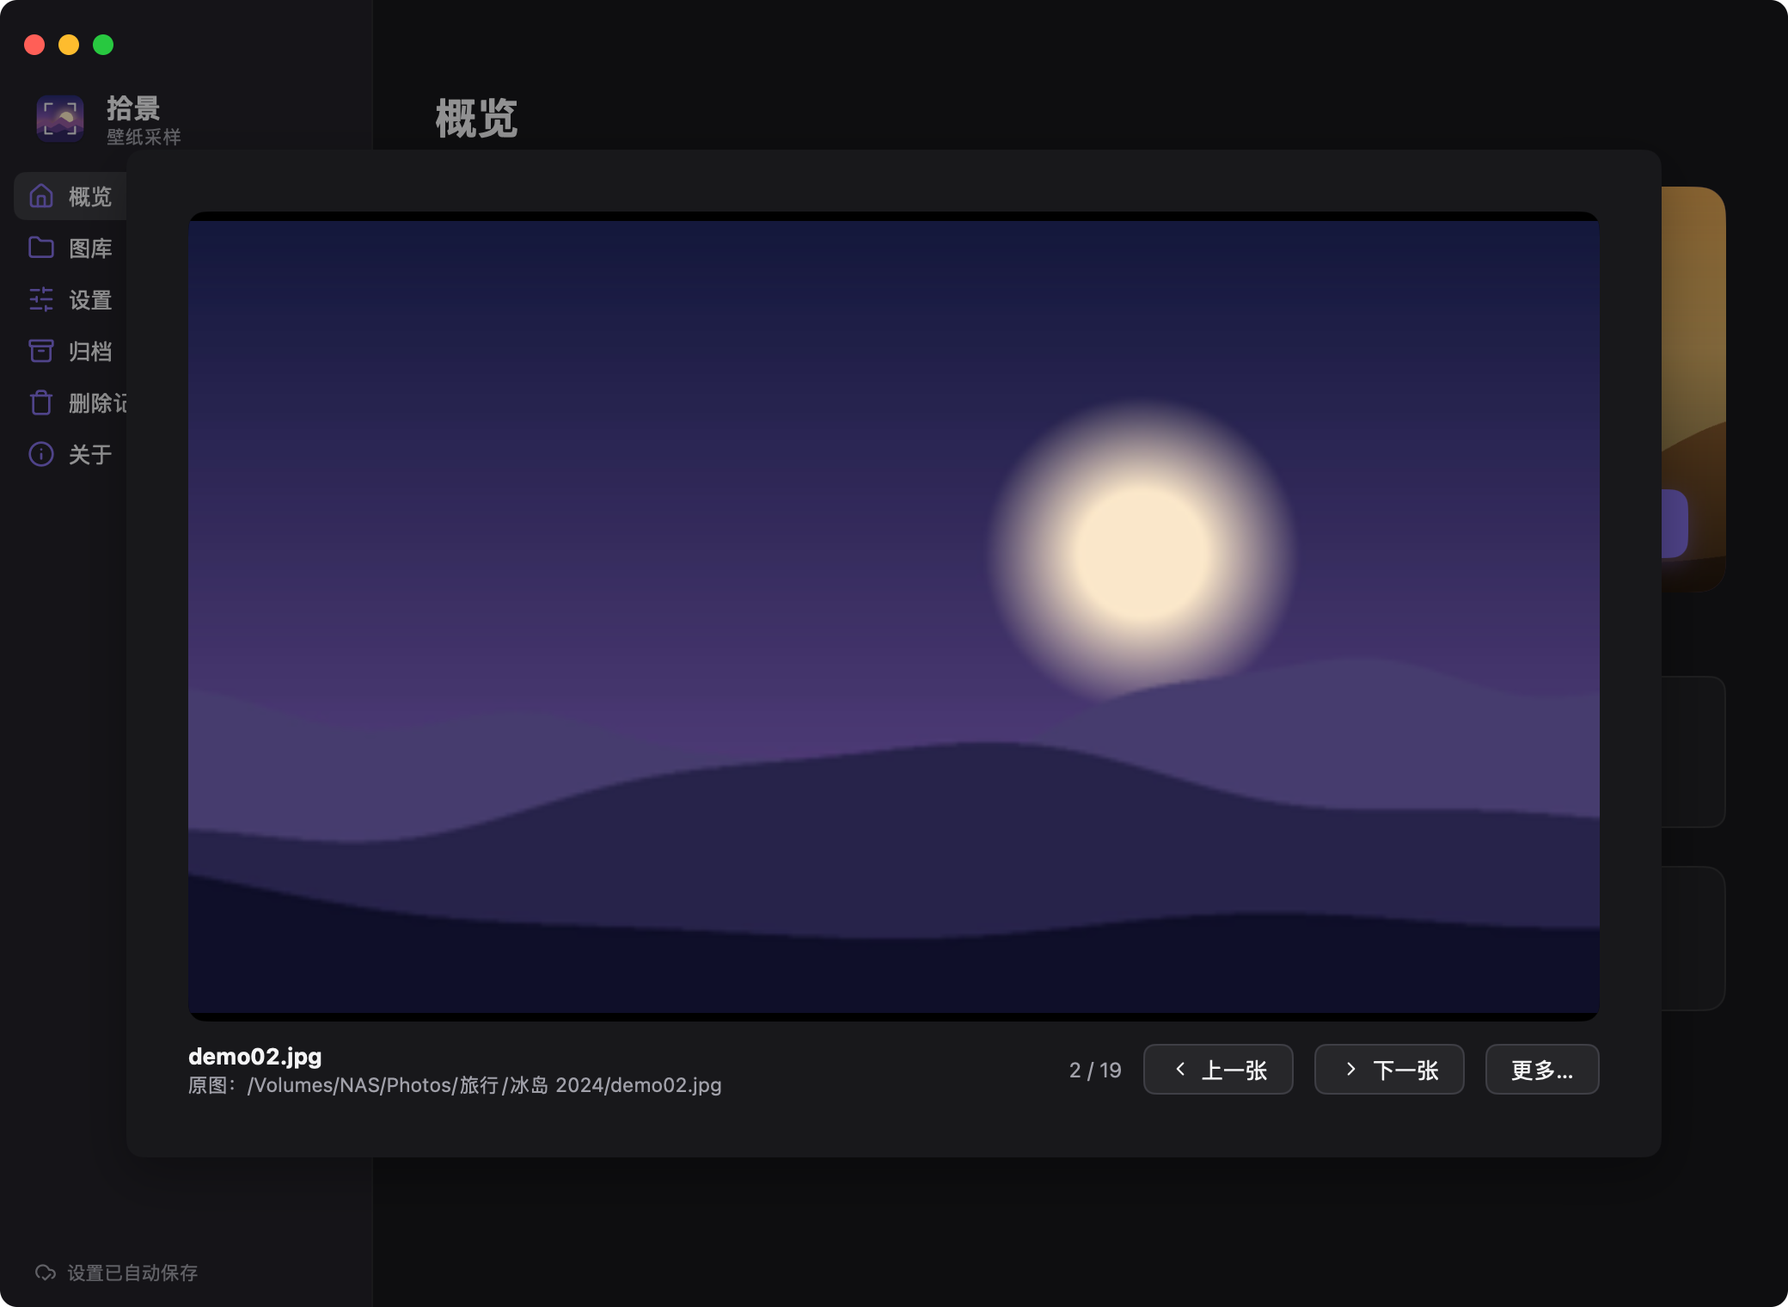
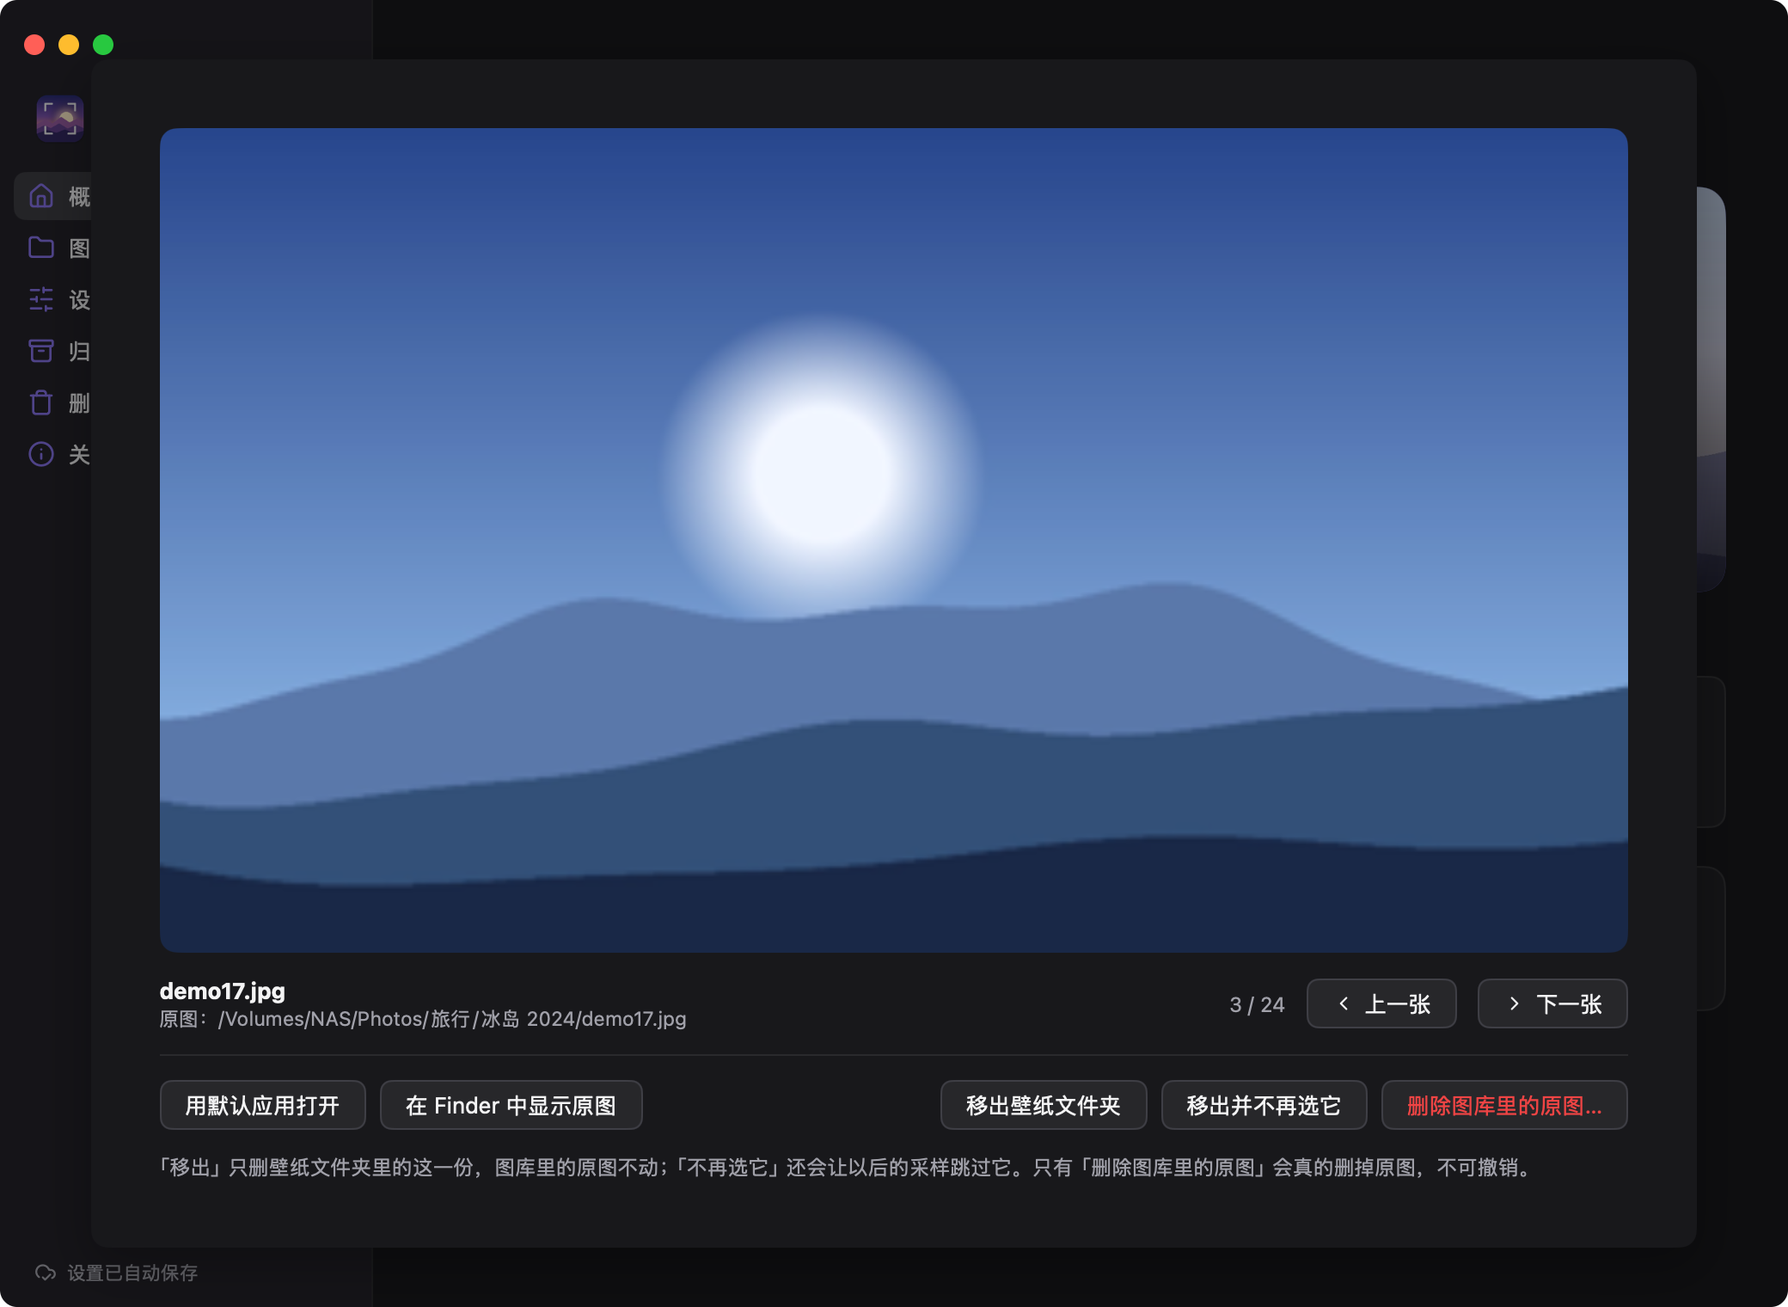
fix(拾景): 预览可翻看全部壁纸、操作按钮直接放进预览、说清移出与删除的区别、按图片比例显示不留黑边，版本 v0.3.1

diff --git a/desktop/preview.go b/desktop/preview.go
@@ -3,28 +3,43 @@ package main
 import (
 	"fmt"
 	"path/filepath"
+	"slices"
 
 	"github.com/egoist/mygo/ui"
 )
 
-// wallMenu 是缩略图（和大图预览）的操作菜单。
+// 三种操作的说法要让人一眼看出动不动原图：「移出」只删壁纸文件夹里的那份，「删除原图」才动图库。
+const (
+	actRemove     = "移出壁纸文件夹"
+	actExclude    = "移出并不再选它"
+	actDelete     = "删除图库里的原图…"
+	actRemoveTip  = "只删掉壁纸文件夹里的这一份，图库里的原图不动，以后还可能再被选中"
+	actExcludeTip = "同「移出壁纸文件夹」，原图不动；另外把它加进「不再选的图片」，以后采样跳过它（图库页可以恢复）"
+	actDeleteTip  = "从图库里删除原图，不可撤销，会记进删除记录"
+)
+
+// wallMenu 是缩略图的右键菜单（和大图预览里的按钮是同一组操作）。
 func (a *app) wallMenu(m *ui.Menu, wall string) {
 	src := a.wallSource(wall)
+	if m.Item("查看大图").Chosen() {
+		a.openPreviewOf(wall)
+	}
 	if m.Item("用默认应用打开").Chosen() {
 		a.openPath(wall)
 	}
-	if src != "" && m.Item("在 Finder 中显示原图所在文件夹").Chosen() {
+	if src != "" && m.Item("在 Finder 中显示原图").Chosen() {
 		a.openPath(filepath.Dir(src))
 	}
 	m.Separator()
-	if m.Item("从壁纸文件夹移除").Chosen() {
+	if m.Item(actRemove + "（原图保留）").Chosen() {
 		a.removeWallpaper(wall, false)
 	}
 	if src != "" {
-		if m.Item("移除并不再选它").Chosen() {
+		if m.Item(actExclude + "（原图保留）").Chosen() {
 			a.removeWallpaper(wall, true)
 		}
-		if m.Item("删除原图…").Danger().Chosen() {
+		m.Separator()
+		if m.Item(actDelete).Danger().Chosen() {
 			a.askDeleteOriginal(wall)
 		}
 	}
@@ -34,14 +49,20 @@ func (a *app) askDeleteOriginal(wall string) {
 	a.pendingDelWall, a.confirmDelSrc = wall, true
 }
 
+// openPreview 打开第 i 张缩略图的大图；预览可以翻看壁纸文件夹里的全部图片，不只是缩略图里那几张。
 func (a *app) openPreview(i int) {
-	if i < 0 || i >= len(a.walls.paths) {
-		return
+	if i >= 0 && i < len(a.walls.paths) {
+		a.openPreviewOf(a.walls.paths[i])
 	}
-	a.preview, a.previewIdx = true, i
 }
 
-// loadPreview 在后台把预览的那张解码成大图（缩略图只有 360 像素宽）。
+func (a *app) openPreviewOf(wall string) {
+	if i := slices.Index(a.walls.all, wall); i >= 0 {
+		a.preview, a.previewIdx = true, i
+	}
+}
+
+// loadPreview 在后台把预览的那张解码成大图（缩略图只有 360 像素宽，还有很多张没有缩略图）。
 func (a *app) loadPreview(path string) {
 	if a.previewFor == path || a.update == nil {
 		return
@@ -60,39 +81,75 @@ func (a *app) loadPreview(path string) {
 	}()
 }
 
-// previewModal 是缩略图的大图预览：左右方向键切换，Esc 或点外面关闭。
+// previewBitmap 是预览要显示的图：大图解码好了用大图，否则先用缩略图顶着，都没有返回 nil。
+func (a *app) previewBitmap(wall string) *ui.Bitmap {
+	if a.previewImg != nil && a.previewFor == wall {
+		return a.previewImg
+	}
+	if i := slices.Index(a.walls.paths, wall); i >= 0 {
+		return a.walls.thumbs[i]
+	}
+	return nil
+}
+
+// fitBox 让预览框和图片同比例（不留黑边），并且不超过 maxW × maxH。
+func fitBox(imgW, imgH int, maxW, maxH float32) (w, h float32) {
+	ratio := float32(16.0 / 10)
+	if imgW > 0 && imgH > 0 {
+		ratio = float32(imgW) / float32(imgH)
+	}
+	w = min(maxW, maxH*ratio)
+	return w, w / ratio
+}
+
+// previewModal 是大图预览：可以翻看壁纸文件夹里的全部图片（←→），直接在这里移出或删除。
 func (a *app) previewModal(c *ui.Context) {
 	t := c.Theme()
 	w := &a.walls
-	if a.preview && (a.previewIdx >= len(w.paths) || a.running) {
+	if a.preview && (a.previewIdx >= len(w.all) || a.running) {
 		a.preview = false
 	}
+	step := func(d int) {
+		if n := len(w.all); n > 0 {
+			a.previewIdx = (a.previewIdx + d + n) % n
+		}
+	}
 	if a.preview {
-		a.loadPreview(w.paths[a.previewIdx])
+		a.loadPreview(w.all[a.previewIdx])
 		switch {
 		case c.Shortcut(0, ui.KeyLeft):
-			a.previewIdx = (a.previewIdx + len(w.paths) - 1) % len(w.paths)
+			step(-1)
 		case c.Shortcut(0, ui.KeyRight), c.Shortcut(0, ui.KeySpace):
-			a.previewIdx = (a.previewIdx + 1) % len(w.paths)
+			step(1)
 		}
 	}
 	vw, vh := c.Size()
 	ui.Modal(c, &a.preview, func() {
-		if a.previewIdx >= len(w.paths) {
+		if a.previewIdx >= len(w.all) {
 			return
 		}
-		wall := w.paths[a.previewIdx]
+		wall := w.all[a.previewIdx]
 		src := a.wallSource(wall)
-		width := min(vw*0.82, 1100)
-		ui.Column(c).Width(width).Gap(12).Padding(16).Children(func() {
-			img := w.thumbs[a.previewIdx]
-			if a.previewImg != nil && a.previewFor == wall {
-				img = a.previewImg
+		bmp := a.previewBitmap(wall)
+		var iw, ih int
+		if bmp != nil {
+			iw, ih = bmp.Size()
+		}
+		// 图片框和图片同比例，整个弹层始终比主窗口小
+		boxW, boxH := fitBox(iw, ih, min(vw*0.86, 1200)-40, vh*0.86-150)
+		ui.Column(c).Width(max(boxW+40, 560)).Gap(14).Padding(20).AlignItems(ui.Center).Children(func() {
+			box := ui.Box(c).Size(boxW, boxH).Radius(10).Clip()
+			if bmp == nil {
+				box.Background(hairline(t)).Center().Children(func() {
+					ui.Text(c, "正在载入…").FontSize(12).TextColor(t.TextMuted)
+				})
+			} else {
+				box.Children(func() {
+					ui.Image(c, bmp).Absolute().Top(0).Left(0).Right(0).Bottom(0).Fit(ui.Cover)
+				})
 			}
-			ui.Box(c).Height(min((width-32)/1.6, vh*0.62)).Radius(10).Clip().Background(ui.RGB(0, 0, 0)).Children(func() {
-				ui.Image(c, img).Absolute().Top(0).Left(0).Right(0).Bottom(0).Fit(ui.Contain)
-			})
-			ui.Row(c).Gap(12).AlignItems(ui.Center).Children(func() {
+
+			ui.Row(c).AlignSelf(ui.Stretch).Gap(12).AlignItems(ui.Center).Children(func() {
 				ui.Column(c).Grow(1).Shrink(1).MinWidth(0).Gap(2).Children(func() {
 					ui.Text(c, filepath.Base(wall)).FontSize(13).Bold().SingleLine()
 					sub := "原图：没有记录（之前的版本换上的）"
@@ -101,23 +158,39 @@ func (a *app) previewModal(c *ui.Context) {
 					}
 					ui.Text(c, sub).FontSize(11.5).TextColor(t.TextMuted).SingleLine().Tooltip(src)
 				})
-				ui.Text(c, fmt.Sprintf("%d / %d", a.previewIdx+1, len(w.paths))).FontSize(12).TextColor(t.TextMuted)
-				iconButton(c, iconChevronLeft, "上一张", false).Tooltip("←").OnClick(func() {
-					a.previewIdx = (a.previewIdx + len(w.paths) - 1) % len(w.paths)
-				})
-				iconButton(c, iconChevronRight, "下一张", false).Tooltip("→").OnClick(func() {
-					a.previewIdx = (a.previewIdx + 1) % len(w.paths)
-				})
-				ui.Button(c, "更多…").PopoverMenu(func(m *ui.Menu) { a.wallMenu(m, wall) })
+				ui.Text(c, fmt.Sprintf("%d / %d", a.previewIdx+1, len(w.all))).FontSize(12).TextColor(t.TextMuted)
+				iconButton(c, iconChevronLeft, "上一张", false).Tooltip("←").OnClick(func() { step(-1) })
+				iconButton(c, iconChevronRight, "下一张", false).Tooltip("→ 或空格").OnClick(func() { step(1) })
 			})
+
+			ui.Box(c).AlignSelf(ui.Stretch).Height(1).Background(hairline(t))
+			ui.Row(c).AlignSelf(ui.Stretch).Gap(8).AlignItems(ui.Center).Wrap().Children(func() {
+				ui.Button(c, "用默认应用打开").OnClick(func() { a.openPath(wall) })
+				if src != "" {
+					ui.Button(c, "在 Finder 中显示原图").OnClick(func() { a.openPath(filepath.Dir(src)) })
+				}
+				ui.Spacer(c)
+				ui.Button(c, actRemove).Tooltip(actRemoveTip).OnClick(func() { a.removeWallpaper(wall, false) })
+				if src != "" {
+					ui.Button(c, actExclude).Tooltip(actExcludeTip).OnClick(func() { a.removeWallpaper(wall, true) })
+					ui.Button(c, actDelete).TextColor(t.Danger).Tooltip(actDeleteTip).OnClick(func() { a.askDeleteOriginal(wall) })
+				}
+			})
+			note := "「移出」只删壁纸文件夹里的这一份，图库里的原图不动；「不再选它」还会让以后的采样跳过它。"
+			if src != "" {
+				note += "只有「删除图库里的原图」会真的删掉原图，不可撤销。"
+			} else {
+				note += "这张是之前的版本换上的，找不到对应的原图，只能移出。"
+			}
+			muted(c, note).AlignSelf(ui.Stretch)
 		})
 	}).Label("壁纸预览")
 
-	// 删除原图前确认（只在这里弹，不用运行时的删除确认）
+	// 删除原图前确认
 	if a.confirmDelSrc {
 		src := a.wallSource(a.pendingDelWall)
-		msg := fmt.Sprintf("会从图库里删除原图 %s，并从壁纸文件夹移除。删除不可撤销，会记进删除记录。", tildify(src))
-		if ui.AlertDialog(c, &a.confirmDelSrc, "删除这张原图？", msg, "取消", "删除原图") == 1 {
+		msg := fmt.Sprintf("会从图库里删除原图 %s，并移出壁纸文件夹。删除不可撤销，会记进删除记录。", tildify(src))
+		if ui.AlertDialog(c, &a.confirmDelSrc, "删除图库里的这张原图？", msg, "取消", "删除原图") == 1 {
 			a.deleteOriginal(a.pendingDelWall)
 		}
 	}

diff --git a/desktop/main_test.go b/desktop/main_test.go
@@ -337,17 +337,25 @@ func TestThumbnailOpensItsImage(t *testing.T) {
 	f, tt := newFakeApp(t)
 	img := image.NewRGBA(image.Rect(0, 0, 16, 10))
 	f.walls = wallpapers{dir: core.ExpandUser(f.cfg.DestDir), total: 9,
-		thumbs: []*ui.Bitmap{ui.NewBitmap(img), ui.NewBitmap(img)}, paths: []string{"/w/a.jpg", "/w/b.jpg"}}
+		thumbs: []*ui.Bitmap{ui.NewBitmap(img), ui.NewBitmap(img)}, paths: []string{"/w/a.jpg", "/w/b.jpg"},
+		all: []string{"/w/hero.jpg", "/w/a.jpg", "/w/b.jpg", "/w/c.jpg"}}
 	f.wallsLoadedGen = f.wallsGen
 	tt.Frame()
 	click(t, tt, "壁纸 2")
 	tt.Frame()
-	if !f.preview || !tt.HasText("b.jpg") || !tt.HasText("2 / 2") {
-		t.Errorf("点缩略图应打开大图预览: %q", tt.Texts())
+	if !f.preview || !tt.HasText("b.jpg") || !tt.HasText("3 / 4") {
+		t.Errorf("点缩略图应打开大图预览，能翻看文件夹里的全部图片: %q", tt.Texts())
 	}
 	click(t, tt, "下一张")
-	if !tt.HasText("1 / 2") {
+	if !tt.HasText("c.jpg") || !tt.HasText("4 / 4") || !tt.HasText("正在载入…") {
+		t.Errorf("没有缩略图的图片也能预览: %q", tt.Texts())
+	}
+	click(t, tt, "下一张")
+	if !tt.HasText("1 / 4") {
 		t.Error("下一张应循环到第一张")
+	}
+	if !tt.HasText("移出壁纸文件夹") || tt.HasText("删除图库里的原图…") {
+		t.Errorf("没有原图记录时只能移出: %q", tt.Texts())
 	}
 	f.preview = false
 	tt.Frame()
@@ -554,12 +562,12 @@ func TestWallpaperActions(t *testing.T) {
 	img := ui.NewBitmap(image.NewRGBA(image.Rect(0, 0, 4, 4)))
 	reset := func() {
 		os.WriteFile(wall, []byte("x"), 0o644)
-		f.walls = wallpapers{total: 1, thumbs: []*ui.Bitmap{img}, paths: []string{wall}, sources: map[string]string{"s-a.jpg": src}}
+		f.walls = wallpapers{total: 1, thumbs: []*ui.Bitmap{img}, paths: []string{wall}, all: []string{wall}, sources: map[string]string{"s-a.jpg": src}}
 	}
 
 	reset()
 	f.removeWallpaper(wall, true)
-	if _, err := os.Stat(wall); !os.IsNotExist(err) || len(f.walls.paths) != 0 {
+	if _, err := os.Stat(wall); !os.IsNotExist(err) || len(f.walls.paths) != 0 || len(f.walls.all) != 0 {
 		t.Error("应从壁纸文件夹移除")
 	}
 	if !slices.Equal(f.cfg.Excluded, []string{src}) || !slices.Equal(f.buildConfig().Excluded, []string{src}) {
@@ -570,6 +578,11 @@ func TestWallpaperActions(t *testing.T) {
 	f.deleteOriginal(wall)
 	if _, err := os.Stat(src); !os.IsNotExist(err) {
 		t.Error("应删除原图")
+	}
+	reset()
+	f.removeWallpaper(wall, false)
+	if _, err := os.Stat(filepath.Dir(src)); err != nil {
+		t.Error("移出壁纸文件夹不应动原图所在目录")
 	}
 	if recs := core.ReadDeleteLog(f.paths.DeleteLog); len(recs) != 1 || recs[0].Path != src || recs[0].Reason != "手动删除" {
 		t.Errorf("应记进删除记录: %+v", recs)
@@ -608,5 +621,23 @@ func TestAutoRunSkipsDeletion(t *testing.T) {
 	f.settle(t, tt, func() bool { return !f.running })
 	if len(f.runCfgs) != 1 || f.runCfgs[0].DeleteDuringFilter || f.runCfgs[0].AutoRunHours != 6 {
 		t.Errorf("定时运行不应删除原图: %+v", f.runCfgs)
+	}
+}
+
+func TestFitBoxKeepsImageRatio(t *testing.T) {
+	for _, c := range []struct {
+		iw, ih     int
+		maxW, maxH float32
+		w, h       float32
+	}{
+		{1600, 900, 1000, 800, 1000, 562.5}, // 宽度先到上限
+		{1600, 900, 1000, 450, 800, 450},    // 高度先到上限
+		{900, 1600, 1000, 800, 450, 800},    // 竖图
+		{0, 0, 800, 800, 800, 500},          // 还没有图：按 16:10
+	} {
+		w, h := fitBox(c.iw, c.ih, c.maxW, c.maxH)
+		if w != c.w || h != c.h {
+			t.Errorf("fitBox(%d×%d, %v×%v) = %v×%v，想要 %v×%v", c.iw, c.ih, c.maxW, c.maxH, w, h, c.w, c.h)
+		}
 	}
 }

diff --git a/desktop/thumbs.go b/desktop/thumbs.go
@@ -5,6 +5,7 @@ import (
 	"math/rand/v2"
 	"os"
 	"path/filepath"
+	"slices"
 	"sync"
 
 	"desktop/core"
@@ -32,6 +33,7 @@ type wallpapers struct {
 	thumbs  []*ui.Bitmap      // 缩略图
 	paths   []string          // 每张缩略图对应的文件，点击时打开
 	rest    []string          // 还没解码的文件（已打乱），需要更多缩略图时从这里取
+	all     []string          // 文件夹里全部图片（已打乱，横幅图也在内），大图预览按这个顺序翻
 	sources map[string]string // 壁纸文件名 → 原图路径（core.WallpaperSources）；旧版本换上的为 nil
 	loading bool
 	more    bool // 正在后台解码更多缩略图
@@ -45,6 +47,7 @@ type scannedWallpapers struct {
 	thumbs []image.Image
 	paths  []string
 	rest   []string
+	all    []string
 }
 
 // scanWallpapers 列出文件夹里的图片，打乱后解码横幅图和前几张缩略图。读不了的图片直接跳过。
@@ -63,6 +66,7 @@ func scanWallpapers(dir string) scannedWallpapers {
 	}
 	res.total = len(files)
 	rand.Shuffle(len(files), func(i, j int) { files[i], files[j] = files[j], files[i] })
+	res.all = slices.Clone(files)
 
 	// 横幅图要够宽；第一张不够宽（或读不了）就往后找，最多试几张
 	for len(files) > 0 && res.hero == nil {
@@ -153,7 +157,7 @@ func (a *app) loadWallpapers() {
 		s := a.scanWallpapers(dir)
 		sources := core.WallpaperSources(a.paths.Selection, dir)
 		a.update(func() {
-			w := wallpapers{dir: s.dir, total: s.total, paths: s.paths, rest: s.rest, sources: sources}
+			w := wallpapers{dir: s.dir, total: s.total, paths: s.paths, rest: s.rest, all: s.all, sources: sources}
 			if s.hero != nil {
 				w.hero = ui.NewBitmap(s.hero)
 			}

diff --git a/desktop/features.go b/desktop/features.go
@@ -173,9 +173,9 @@ func (a *app) removeWallpaper(wall string, exclude bool) {
 	}
 	a.dropWall(wall)
 	if exclude {
-		a.toast = "已移除，以后不会再选这张"
+		a.toast = "已移出壁纸文件夹，原图还在图库里；以后采样会跳过它"
 	} else {
-		a.toast = "已从壁纸文件夹移除"
+		a.toast = "已移出壁纸文件夹，原图还在图库里"
 	}
 }
 
@@ -193,7 +193,7 @@ func (a *app) deleteOriginal(wall string) {
 	a.appendLog(fmt.Sprintf("🔥 手动删除原图: %s", src))
 	_ = os.Remove(wall)
 	a.dropWall(wall)
-	a.toast = "已删除原图"
+	a.toast = "已删除图库里的原图，记进了删除记录"
 }
 
 // dropWall 把一张从缩略图里去掉（不重新扫描，其余缩略图不变）。
@@ -203,12 +203,15 @@ func (a *app) dropWall(wall string) {
 		w.paths = slices.Delete(w.paths, i, i+1)
 		w.thumbs = slices.Delete(w.thumbs, i, i+1)
 	}
+	w.all = slices.DeleteFunc(w.all, func(p string) bool { return p == wall })
+	w.rest = slices.DeleteFunc(w.rest, func(p string) bool { return p == wall })
 	w.total = max(0, w.total-1)
 	if a.preview {
-		if len(w.paths) == 0 {
+		// 停在原位置，看到的就是下一张
+		if len(w.all) == 0 {
 			a.preview = false
 		} else {
-			a.previewIdx = min(a.previewIdx, len(w.paths)-1)
+			a.previewIdx = min(a.previewIdx, len(w.all)-1)
 		}
 	}
 }

diff --git a/CLAUDE.md b/CLAUDE.md
@@ -69,6 +69,7 @@ NAS/网络卷上同步来的文件经常带有 `SF_ARCHIVED`（superuser-only）
 - v0.3.0 加的几样，改相关代码时注意：
   - **优先选没换上过的**（`prefer_unseen`）：`selection_history.json` 是这一轮轮换里换上过的原图路径集合；没换上过的不够一批时全部选上、差的从换上过的里补，并把历史重置成只有这一批（`NewCycle`）。只在复制完整跑完后写。`CopyResult.Rotated` / `Candidates` 是轮换进度。
   - **删除日志**每行 4 列（时间、阈值、路径、原因），旧日志只有 3 列，`core.ReadDeleteLog` 两种都认；不合格原因来自 `core.ImageVerdict`。筛选时每张不合格的图只打一行日志：真删「🔥 已删除: 名  (原因)」/「❌ 删除失败」，模拟「🗑 待删除: 名  (原因)」——界面 `parseLogLine` 按两个空格加括号拆出原因，`countDeletion` 数这些行。
+  - **大图预览**按 `walls.all`（壁纸文件夹里全部图片，打乱后的顺序）翻，不只是缩略图那几张；没缩略图的先显示「正在载入…」，后台 `loadPreview` 解码。图片框用 `fitBox` 按图片比例算尺寸（不留黑边），整个弹层不超过主窗口。三种操作的文案集中在 `preview.go` 的 `act*` 常量：「移出」只删壁纸文件夹里那份，「删除图库里的原图」才动原图——改文案时保持这个区分。
   - **缩略图 → 原图**：`last_selection.json` 里 `dests` 和 `sources` 一一对应，`core.WallpaperSources` 读成「壁纸文件名 → 原图」；旧版本换上的没有 `dests`，缩略图菜单里就不出现「不再选它 / 删除原图」。
   - **定时自动换**（`auto_run_hours`）：`main.go` 里每分钟 `maybeAutoRun`，从上次运行（没运行过从应用启动）开始计时；`startRunWith(true)` 会强制 `DeleteDuringFilter=false`，自动运行永远不删原图。
   - 图库统计、空间预估用 `a.lastGood`（最近一次成功运行，存在 `ui_state.json` 的 `last_success`），因为运行中 / 失败后 `a.last` 不是成功的结果。

diff --git a/README.md b/README.md
@@ -23,7 +23,7 @@
    - **筛选 + 采样**：先删掉竖屏、正方形、分辨率不够的原图，再参与采样
    - **仅采样**：不删任何文件，采样时跳过不合格的图片，适合收藏夹这类不想动的目录
 2. **设置**：选壁纸文件夹、每次张数、最低分辨率（4K / 5K / 2K / 1080p / 自定义）。改动自动保存。
-3. **概览**：点「换一批壁纸」（⌘R）。依次 筛选 → 采样 → 复制 → 刷新系统壁纸，系统的文件夹轮换会立刻用上新的一批。缩略图按窗口大小铺满；点一张看大图（←→ 切换），右键可以从壁纸文件夹移除、以后不再选它，或删除原图。
+3. **概览**：点「换一批壁纸」（⌘R）。依次 筛选 → 采样 → 复制 → 刷新系统壁纸，系统的文件夹轮换会立刻用上新的一批。缩略图按窗口大小铺满；点一张看大图，←→ 可以翻看这一批的全部壁纸；预览里和右键菜单都可以「移出壁纸文件夹」「移出并不再选它」（这两个都不动原图），或「删除图库里的原图」（不可撤销）。
 
 <table>
   <tr>
